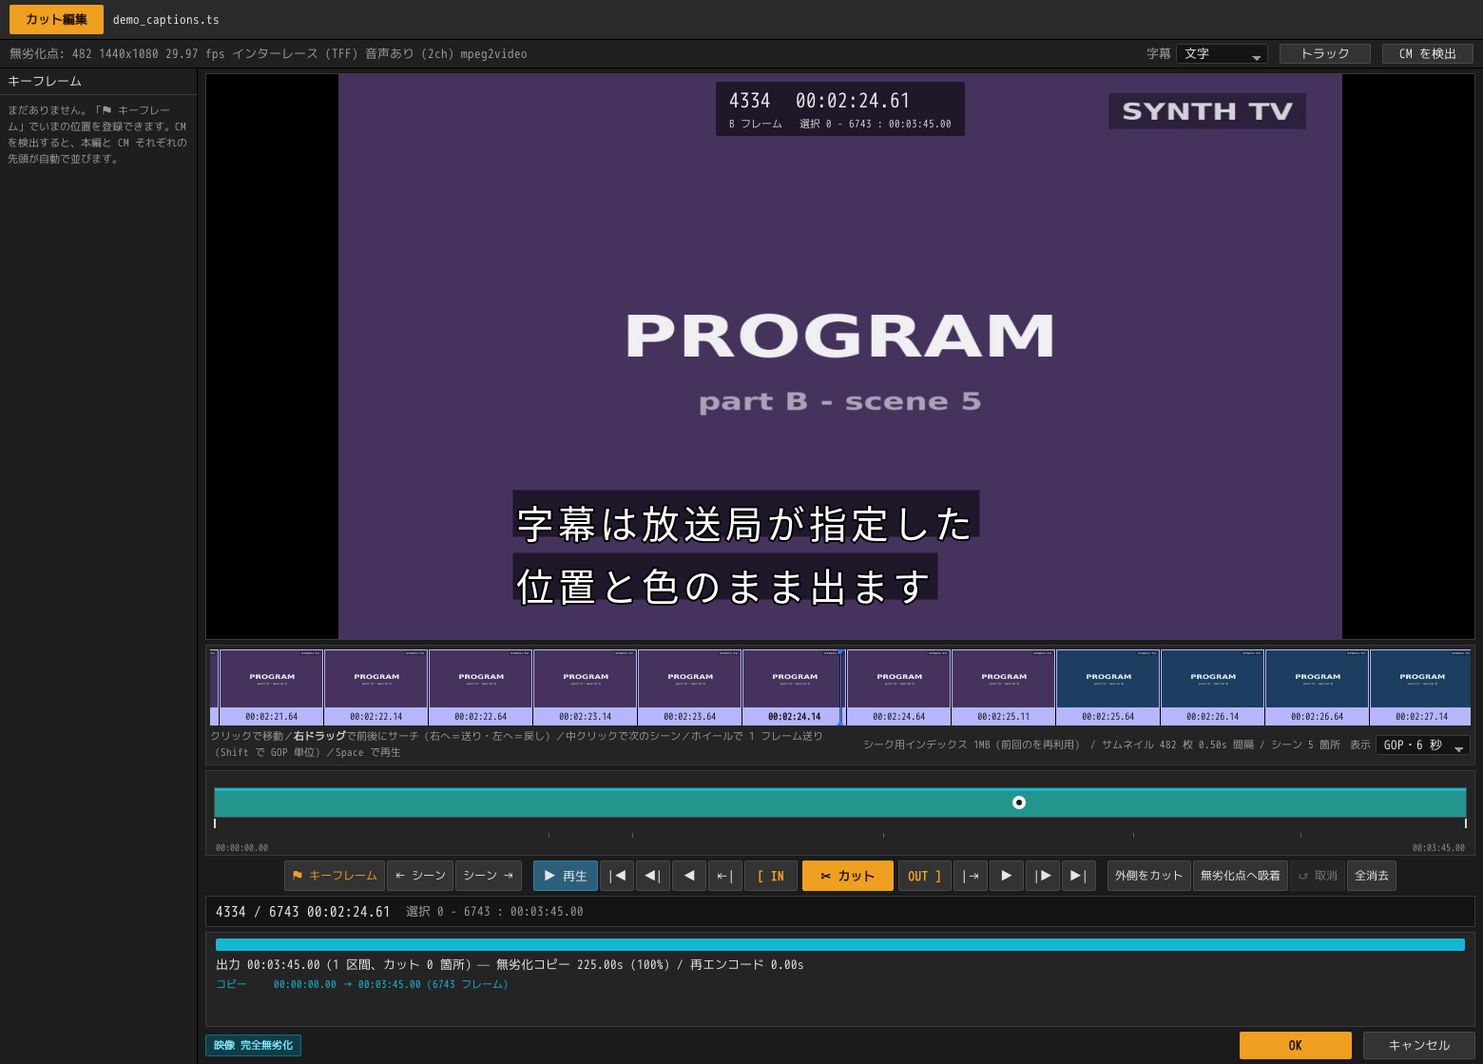
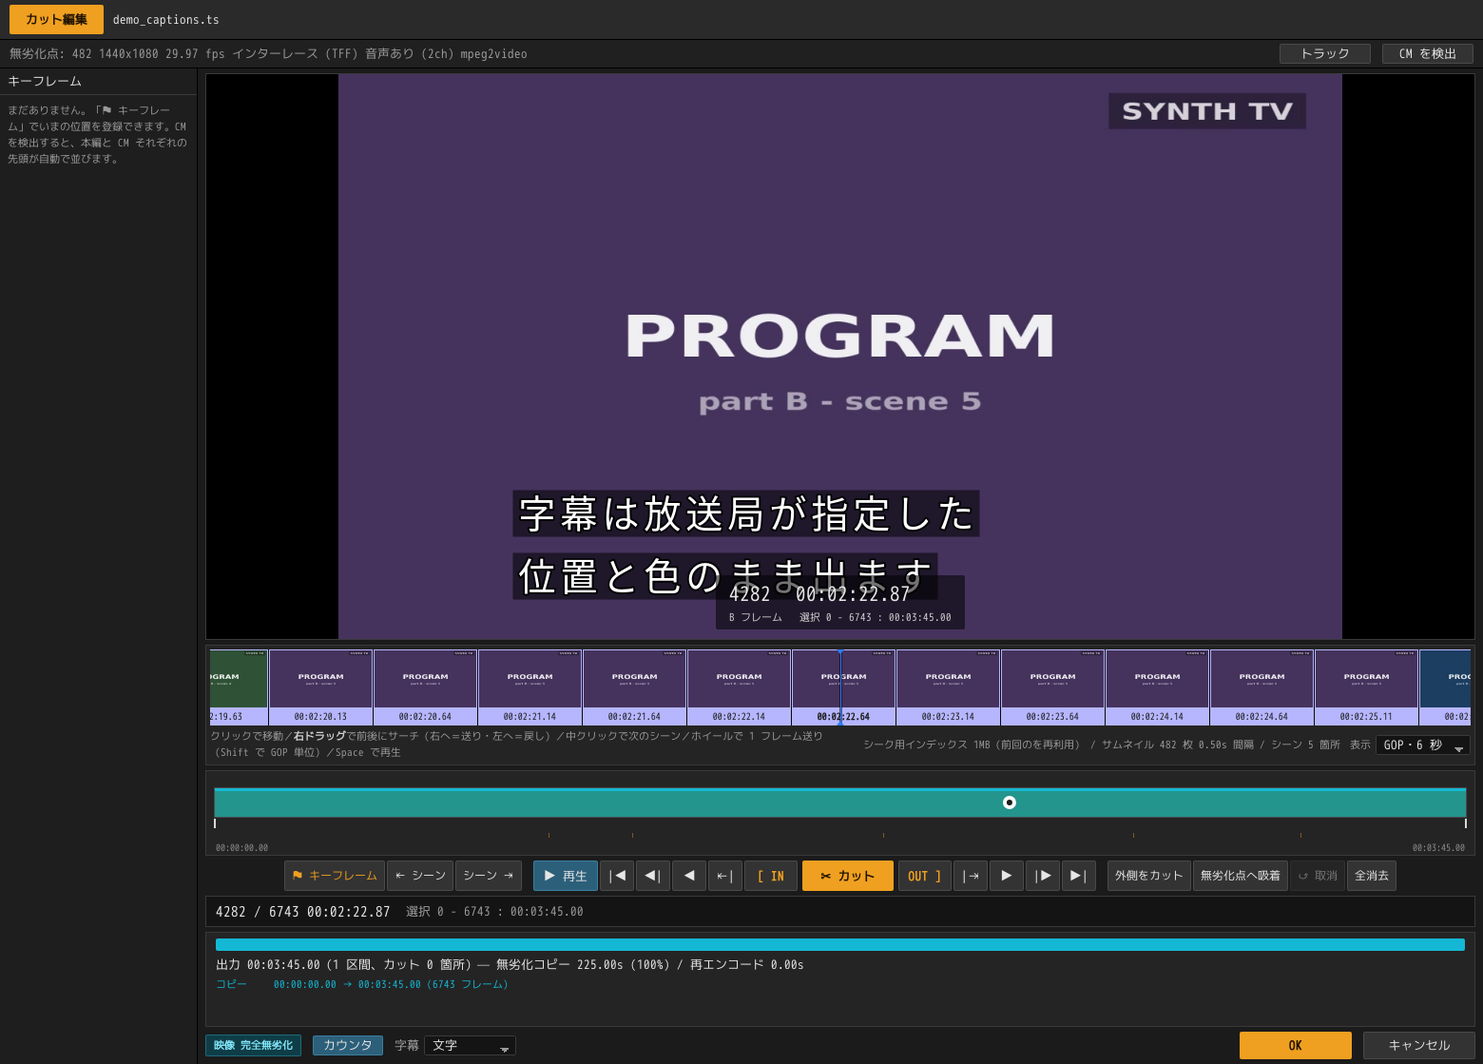
Keep the readouts at the foot of the picture, and give them a switch
The frame number and the time were moved to the top of the stage whenever
subtitles were drawn, on the reasoning that both want the foot of the picture
and the subtitle is the one that cannot be moved. What that was really
working around is fixed in the commit before this one: captions were landing
in the top left corner, which is where the readouts had just been sent, and
the box the broadcaster draws behind a line went straight over them. The
readouts did not move out of the way of a caption. They moved under one.

So they stay where they are looked for. They are drawn **over** the subtitle
layer rather than under it, so a caption cannot take the playhead's own
readout with it -- and because a stage has no third place to put either of
them, which one may be in the way is the person's to say rather than this
window's: **カウンタ** takes the box off the picture. A button that stays
down while they are drawn, because what it switches has no label of its own
to go dim, in the transport's blue and not the teal of the badge beside it --
one is a control that is down and the other a state that was measured, and
two teals side by side read as one thing said twice. The line under the film
strip says the same numbers and is not touched.

It sits on the bottom line beside what the cut costs, and **字幕** has come
down from the info bar to sit with it. Both are answers about the picture
being looked at rather than about the file, and they were being reached for
[…]

diff --git a/gui/src/main.js b/gui/src/main.js
@@ -695,7 +695,6 @@ function paintSubsPicker() {
     subsId = null;
     sel.innerHTML = "";
     clearSubs();
-    placeReadouts();
     return;
   }
   // Rebuilt rather than patched: this is drawn once per recording, and the
@@ -718,7 +717,6 @@ function paintSubsPicker() {
   subsId = still ? subsId : null;
   sel.value = still ? String(subsId) : "";
   if (!still) clearSubs();
-  placeReadouts();
 }
 
 /// What to call one track in the list.
@@ -766,15 +764,6 @@ function clearSubs() {
   subsShown = null;
   const layer = el("subs-layer");
   if (layer) layer.hidden = true;
-}
-
-/// The frame counter and the subtitles both want the bottom of the picture,
-/// and only one of them can be moved. Moved while a track is chosen rather
-/// than while a line is actually on screen: a readout that jumped to the top
-/// and back at every line would be worse than either place.
-function placeReadouts() {
-  const stage = document.querySelector(".stage");
-  if (stage) stage.classList.toggle("subs-on", subsId !== null);
 }
 
 /// Ask what is on screen at `t` and draw it.
@@ -952,7 +941,6 @@ const subsPicker = el("subs-track");
 if (subsPicker) {
   subsPicker.addEventListener("change", () => {
     subsId = subsPicker.value === "" ? null : Number(subsPicker.value);
-    placeReadouts();
     if (subsId === null) {
       clearSubs();
     } else {
@@ -980,6 +968,61 @@ function updateReadouts() {
   });
   el("selection").textContent = sel;
   el("ovl-sel").textContent = sel;
+}
+
+// --- the readouts on the picture ------------------------------------------
+//
+// Drawn unless they are turned off, from the info bar. They stand at the foot
+// of the picture, which is where a subtitle stands too, and a stage has no
+// third place to put either of them: the readouts are drawn over the
+// subtitles so that neither can go missing, and which of the two may be in
+// the way is a question for the person cutting rather than for this window.
+//
+// The line under the film strip says the same thing and is not touched --
+// what this hides is the box on the picture, which is the one that is in the
+// way of anything.
+
+/// Kept in the browser's own store, beside the language. The editor window is
+/// built afresh for every clip, and an answer given once about what the
+/// picture carries should not have to be given again.
+const COUNTER_KEY = "smartcut.counter";
+
+/// Whether to draw them, as it was last left. Anything but a stored "off" is
+/// on, so a store that has never been written and one that cannot be read
+/// come to the same answer.
+function counterWanted() {
+  try {
+    return localStorage.getItem(COUNTER_KEY) !== "off";
+  } catch {
+    return true;
+  }
+}
+
+/// Put them up or take them down, and leave the button showing which it is.
+/// `remember` is false for the window doing as it was already told, and true
+/// for the person telling it.
+function showCounter(on, remember = true) {
+  el("overlay").hidden = !on;
+  const button = el("counter-show");
+  if (button) {
+    button.classList.toggle("on", on);
+    button.setAttribute("aria-pressed", on ? "true" : "false");
+  }
+  if (!remember) return;
+  try {
+    localStorage.setItem(COUNTER_KEY, on ? "on" : "off");
+  } catch {
+    // This window still does as it was asked; only the next one forgets.
+  }
+}
+
+const counterButton = el("counter-show");
+if (counterButton) {
+  showCounter(counterWanted(), false);
+  // Read back off the picture rather than off a flag of its own: the one on
+  // the stage is what the button is about, and two of them would be one too
+  // many things to keep in step.
+  counterButton.addEventListener("click", () => showCounter(el("overlay").hidden));
 }
 
 // --- film strip ---------------------------------------------------------

diff --git a/gui/src/editor.html b/gui/src/editor.html
@@ -18,14 +18,6 @@
     <div class="infobar">
       <span id="info">—</span>
       <span class="spacer"></span>
-      <!-- Which subtitles to draw over the preview, and 表示しない first
-           because that is what a cutting screen is for: the picture under
-           the playhead is what a cut is judged by, and a caption over it is
-           something to turn on when the cut is near a line. Empty and out of
-           the way on a recording that carries none. See `subs.rs`. -->
-      <label class="opt" id="subs-pick" hidden><span data-i18n="subs.label">字幕</span>
-        <select id="subs-track"></select>
-      </label>
       <button id="tracks" class="mini wide" data-i18n="tracks.button"
               data-i18n-title="tracks.button.title">トラック</button>
       <!-- Its label counts a detection up while one is running, so it is
@@ -46,7 +38,7 @@
       <div class="editor">
         <div class="stage">
           <img id="preview" alt="" />
-          <div class="overlay">
+          <div class="overlay" id="overlay">
             <div class="ovl-main">
               <span id="ovl-frame">—</span>
               <span id="ovl-time">--:--:--.--</span>
@@ -161,6 +153,35 @@
                what say which way you left it. -->
           <div class="export">
             <span class="badge" id="smart-badge">—</span>
+            <!-- What the preview carries, beside what the cut costs. Both are
+                 answers about the picture you are looking at rather than
+                 about the file, and this corner is where the eye already is
+                 while a cut is being placed -- the info bar above is a long
+                 way from the picture, and these two were being reached for
+                 while looking at it.
+
+                 The frame number and the time, on the picture or off it: they
+                 stand at the foot of the picture and so does a subtitle, and
+                 a stage has no third place to put either, so which of the two
+                 may be in the way is the person's to say.
+
+                 A button that stays down rather than a box to tick: what it
+                 turns on is a thing you are looking straight at, so it is
+                 pressed while looking at the picture and the picture is the
+                 answer. `aria-pressed` is the state, and `.on` is that state
+                 made visible. -->
+            <button id="counter-show" class="mini" type="button" aria-pressed="true"
+                    data-i18n="editor.counterShow"
+                    data-i18n-title="editor.counterShow.title">カウンタ</button>
+            <!-- Which subtitles to draw over the preview, and 表示しない first
+                 because that is what a cutting screen is for: the picture
+                 under the playhead is what a cut is judged by, and a caption
+                 over it is something to turn on when the cut is near a line.
+                 Empty and out of the way on a recording that carries none.
+                 See `subs.rs`. -->
+            <label class="opt" id="subs-pick" hidden><span data-i18n="subs.label">字幕</span>
+              <select id="subs-track"></select>
+            </label>
             <span class="dim" id="status"></span>
             <span class="spacer"></span>
             <button id="editor-ok" class="primary wide" data-i18n="editor.ok">OK</button>

diff --git a/gui/src/styles.css b/gui/src/styles.css
@@ -255,16 +255,21 @@ main { flex: 1; min-height: 0; display: flex; gap: 0; }
   position: absolute; left: 50%; bottom: 10px; transform: translateX(-50%);
   background: rgba(0,0,0,.55); padding: 4px 14px; border-radius: 2px;
   text-align: center; pointer-events: none; white-space: nowrap;
+  /* Over the subtitle layer, which covers the whole picture: a caption
+     drew its own box over the readouts otherwise, and where the playhead
+     is is not a thing to lose. The readouts stay at the foot of the stage
+     whether subtitles are drawn or not -- that is where they are looked
+     for, and a readout that moved when a picker changed was worse than
+     one a caption sometimes sits behind. */
+  z-index: 2;
 }
+/* Turned off from the info bar. Spelled out for the same reason `.ovl-main`
+   spells it out: a rule of its own is what a bare `hidden` loses against. */
+.overlay[hidden] { display: none; }
 .ovl-main[hidden] { display: none; }
 .ovl-main { display: flex; gap: 26px; font-size: 21px; font-variant-numeric: tabular-nums; }
 .ovl-sub { display: flex; gap: 18px; font-size: 11px; color: #cfcfcf; justify-content: center; }
 #ovl-kind.key { color: #7ee787; font-weight: 600; }
-/* The readouts move to the top of the stage while subtitles are being drawn.
-   Both want the bottom of the picture -- that is where a subtitle goes and
-   where a frame counter goes least in the way -- and the subtitle is the one
-   that cannot be moved: it is where the broadcaster put it. */
-.stage.subs-on .overlay { top: 8px; bottom: auto; }
 
 /* The subtitle layer, laid over the picture rather than over the stage: the
    stage is black where a 16:9 picture does not reach the edges, and a
@@ -278,7 +283,7 @@ main { flex: 1; min-height: 0; display: flex; gap: 0; }
 #subs-pic[hidden] { display: none; }
 
 .searching {
-  position: absolute; top: 8px; left: 50%; transform: translateX(-50%);
+  position: absolute; top: 8px; left: 50%; transform: translateX(-50%); z-index: 3;
   background: rgba(240,160,32,.9); color: #201400; font-weight: 600;
   padding: 2px 12px; border-radius: 2px; pointer-events: none;
 }
@@ -472,6 +477,13 @@ main { flex: 1; min-height: 0; display: flex; gap: 0; }
 .opt[hidden] { display: none; }
 .mini.wide { min-width: 96px; }
 .mini { background: #333; color: var(--text); border: 1px solid #4a4a4a; border-radius: 2px; padding: 3px 10px; cursor: pointer; }
+/* A `.mini` that is a switch rather than a command: down while what it turns
+   on is on. The state has to show in the button, because what it switches --
+   the readouts drawn on the picture -- has no label of its own to go dim.
+   The transport's own blue, not the teal of a badge: this is a control that
+   is down, and the badge beside it in the editor's foot is a state that was
+   measured. Two teals side by side read as one thing said twice. */
+.mini.on { background: #2c5f7a; border-color: #3a7fa0; color: var(--text); }
 button:disabled { opacity: .45; cursor: default; }
 /* A control the chosen mode has no use for. The output settings do this to
    the audio channel and bitrate pickers unless the whole track is being

diff --git a/gui/src/i18n.js b/gui/src/i18n.js
@@ -365,6 +365,8 @@ const CATALOG = {
     "editor.windowTitle": "カット編集 — {clip}",
     "editor.loading": "読み込み中…",
     "editor.analysing": "解析中…",
+    "editor.counterShow": "カウンタ",
+    "editor.counterShow.title": "フレーム番号と時刻をプレビューの絵の上に出す",
     "editor.detectCm": "CM を検出",
     "editor.detectCm.title": "CM らしい区間を探してキーフレームを立てる (Ctrl+D)",
     "editor.detecting": "検出中…（映像も読みます）",
@@ -838,6 +840,8 @@ const CATALOG = {
     "editor.windowTitle": "Cut editor — {clip}",
     "editor.loading": "Loading…",
     "editor.analysing": "Reading…",
+    "editor.counterShow": "Counter",
+    "editor.counterShow.title": "Draw the frame number and time over the picture",
     "editor.detectCm": "Detect commercials",
     "editor.detectCm.title": "Look for commercials and mark them with keyframes (Ctrl+D)",
     "editor.detecting": "Detecting… (the video is read too)",

diff --git a/docs/user-guide/gui.ja.md b/docs/user-guide/gui.ja.md
@@ -236,14 +236,14 @@
 | どこ | 何 |
 |---|---|
 | 最上段 | ファイル名 |
-| 情報バー | 無劣化点の数・解像度・fps・走査方式・音声・コーデック。右端に**字幕**・**トラック**・**CM を検出** |
+| 情報バー | 無劣化点の数・解像度・fps・走査方式・音声・コーデック。右端に**トラック**・**CM を検出** |
 | 左の列 | **キーフレーム**（印）の一覧。サムネイル付きで、押せばそこへ飛びます |
 | 中央 | プレビュー。右下にフレーム番号・時刻・そのコマの種類・選択範囲 |
 | その下の帯 | **フィルムストリップ**。前後のコマを絵で並べたものです。1 セルの長さは右の「表示」で選べます |
 | シークバー | **緑が出力そのもの**。`▼` がキーフレーム、赤い縦線がカットの継ぎ目、下の細い目盛りが場面の変わり目 |
 | ボタンの列 | 中央が**カット**、その左が `[ IN`、右が `OUT ]`。外へ向かって「移動」「1 フレーム」「無劣化点」「先頭・末尾」と対称に広がります |
 | 下の帯と行 | **書き出しの計画**。どこをコピーして、どこを作り直すか |
-| 右下 | **OK** と**キャンセル** |
+| 最下段 | 左にカットの費用、その隣に**カウンタ**と**字幕**——プレビューに何を出すか。右に **OK** と**キャンセル** |
 
 > **「無劣化点」とは。** 映像は、そこだけで絵になる**キーフレーム**と、前後の
 > コマとの差分だけを持つコマが交互に並んでできています。差分のコマの途中で
@@ -276,7 +276,7 @@
 
 ![プレビューに字幕を出したところ](../images/usage-subs.ja.png)
 
-情報バーの右端に**字幕**があります。既定は「表示しない」で、選ぶとプレビューの
+最下段、カットの費用の隣に**字幕**があります。既定は「表示しない」で、選ぶとプレビューの
 絵の上にその字幕が出ます。**カットの位置を字幕で決めるためのものです。** 継ぎ目が
 台詞の途中に来ていないか、CM の前後で字幕がどこまで出ているかは、絵だけを見ていても
 分かりません。
@@ -286,8 +286,10 @@
 - ディスクの字幕（**PGS** と DVD の**サブピクチャ**）は絵なので、ディスクが描いた
   ものをそのまま重ねます。
 - 字幕が 2 本以上あるとき（二か国語、日本語と英語など）は、選んだ 1 本だけを出します。
-- 字幕を出しているあいだ、フレーム番号と時刻の表示は絵の**上端**へ移ります。
-  どちらも絵の下を使うので、動かせないほうを優先しています。
+- フレーム番号と時刻の表示は、字幕を出していても絵の**下**のままです。字幕と同じ場所
+  を使うことになりますが、こちらが上に出るので現在地が読めなくなることはありません。
+  字幕のほうを丸ごと見たいときは、隣の**カウンタ**を押して消してください。現在地は
+  フィルムストリップの下の行が言い続けますし、外したことは次のクリップでも覚えています。
 - 再生中も追従します。
 
 書き出す内容は変わりません。ここで選ぶのは**画面に出すかどうか**だけで、

diff --git a/docs/user-guide/gui.md b/docs/user-guide/gui.md
@@ -247,14 +247,14 @@ frames, and `Snap to lossless` can take those to zero once it lights up.
 | Where | What |
 |---|---|
 | Top line | The filename |
-| Info bar | Lossless points, resolution, fps, scan type, audio, codec. **Subtitles**, **Tracks** and **Detect commercials** on the right |
+| Info bar | Lossless points, resolution, fps, scan type, audio, codec. **Tracks** and **Detect commercials** on the right |
 | Left column | The **keyframes** — your marks, each with a thumbnail. Click one to jump there |
 | The large picture | The preview. Bottom right: frame number, timecode, what kind of frame it is, and the current selection |
 | The band under it | The **filmstrip**: the frames around you, laid out as pictures. The `View` menu on the right sets how much time one cell covers |
 | The scrubber | **Green is the output itself.** `▼` are keyframes, a red vertical line is a join left by a cut, and the fine ticks below are scene changes |
 | The button row | **Cut** in the middle, `[ IN` to its left and `OUT ]` to its right, and outwards from there: go to, one frame, lossless point, start and end |
 | The band and lines below | **The export plan**: what will be copied and what will be rebuilt |
-| Bottom right | **OK** and **Cancel** |
+| The bottom line | On the left, what the cut costs, and beside it **Counter** and **Subtitles** — what the preview carries. **OK** and **Cancel** on the right |
 
 > **What a "lossless point" is.** Video is built of **key frames**, which are
 > whole pictures on their own, and frames that hold only the difference from
@@ -288,8 +288,8 @@ hole, and the frame counter counts the length that will actually be written.
 
 ![The preview with the subtitles drawn over it](../images/usage-subs.png)
 
-**Subtitles** sits at the right of the info bar. It is off to begin with; choose a
-track and it is drawn over the preview. **It is there to place a cut by.** Whether a
+**Subtitles** sits on the bottom line, beside what the cut costs. It is off to begin
+with; choose a track and it is drawn over the preview. **It is there to place a cut by.** Whether a
 seam lands in the middle of a line, and how far a subtitle runs either side of a
 commercial break, are not things the picture alone will tell you.
 
@@ -299,8 +299,11 @@ commercial break, are not things the picture alone will tell you.
   the disc drew is what is put on screen.
 - Where a recording carries more than one (a bilingual broadcast, Japanese and English
   on a disc), the one chosen is the one drawn.
-- While subtitles are showing, the frame number and time move to the **top** of the
-  picture: both want the bottom, and the subtitle is the one that cannot be moved.
+- The frame number and time stay at the **foot** of the picture whether subtitles are
+  showing or not. They share that corner with a caption, and they are drawn over it, so
+  where the playhead is never goes missing. Where the caption is the one you want to
+  see whole, turn **Counter** off beside it — the line under the film strip still
+  says where you are, and the answer is remembered for the next clip.
 - Playback keeps up with them.
 
 None of this changes what is written. This chooses what is **on screen**; which

diff --git a/docs/technical/design.ja.md b/docs/technical/design.ja.md
@@ -806,7 +806,7 @@ TMSR6 の「流れるフィルムストリップ上でのサーチ」は、**右
 ## プレビューに字幕を重ねる
 
 **既定は表示しない。** カット編集画面は絵を見る場所であり、字幕はカットを字幕で決めたい
-ときだけ要る。情報バーの選択欄で 1 本選ぶと、その字幕がプレビューの絵の上に出る。録画が
+ときだけ要る。最下段の選択欄で 1 本選ぶと、その字幕がプレビューの絵の上に出る。録画が
 字幕を持っていなければ、欄そのものが出ない。
 
 バックエンドに問うのは「いまこの瞬間、画面に何が出ているか」だけで、コマごとに問う
@@ -821,8 +821,12 @@ TMSR6 の「流れるフィルムストリップ上でのサーチ」は、**右
 
 どちらも `object-fit: contain` で置かれた**絵そのもの**の上に重ねる。ステージは
 16:9 の絵の左右に黒い帯を持つことがあり、ステージを基準に置くと窓の形が変わるたびに
-字幕が帯へずれていく。字幕を出しているあいだ、フレーム番号と時刻は絵の上端へ移る。
-どちらも絵の下を使うが、動かせないのは字幕のほうだからである。
+字幕が帯へずれていく。フレーム番号と時刻は、字幕を出していてもステージの下端のまま
+——そこが探される場所だからで、字幕レイヤーの**上**に描くので、字幕に隠されて
+現在地が読めなくなることはない。ステージに 3 つめの置き場所は無いので、どちらが
+邪魔かは人が決める。最下段、カットの費用の隣の**カウンタ**——出ているあいだは
+点いたままのボタン——で絵の上の箱だけを消せる。編集ウィンドウはクリップごとに
+作り直されるので、その答えは言語と同じブラウザの store に置く。
 
 文字は、フォントの行の都合ではなく**文字が収まる正方形**を基準に置く。
 `textBaseline: "top"` は指定した線に**アセント**を合わせるが、日本語フォントの

diff --git a/docs/technical/design.md b/docs/technical/design.md
@@ -853,7 +853,7 @@ stalls (GOP · 6 s, 2–7 px every 16 ms).
 ## Subtitles over the preview
 
 **Off by default.** The cut editor is a place to look at the picture, and a subtitle
-is wanted only when a cut is being placed by one. A picker in the info bar chooses a
+is wanted only when a cut is being placed by one. A picker on the bottom line chooses a
 track and it is drawn over the preview; a recording that carries no subtitles has no
 picker at all.
 
@@ -872,9 +872,16 @@ of the picture.
 
 Both are laid over the **picture** rather than over the stage. `object-fit: contain`
 leaves black bands beside a 16:9 picture in a wider stage, and a subtitle placed
-against the stage would drift into them as the window changed shape. While subtitles
-are showing, the frame number and time move to the top of the picture: both want the
-bottom, and the subtitle is the one that cannot be moved.
+against the stage would drift into them as the window changed shape. The frame number
+and time stay at the foot of the stage whether subtitles are drawn or not — that is
+where they are looked for — and they are drawn over the subtitle layer rather than
+under it, so a caption never takes the playhead's own readout with it. A stage has no
+third place to put either of them, so which one may be in the way is the person's to
+say: **Counter**, on the bottom line beside what the cut costs, takes the box off the
+picture — a button that stays down while they are drawn, because what it switches has
+no label of its own to go dim — and the answer is kept
+in the browser's own store beside the language, because the editor window is built
+afresh for every clip.
 
 A character is placed by the square it fills rather than by the font's idea of a line.
 `textBaseline: "top"` puts the *ascent* on the line it is given, and a Japanese font's
